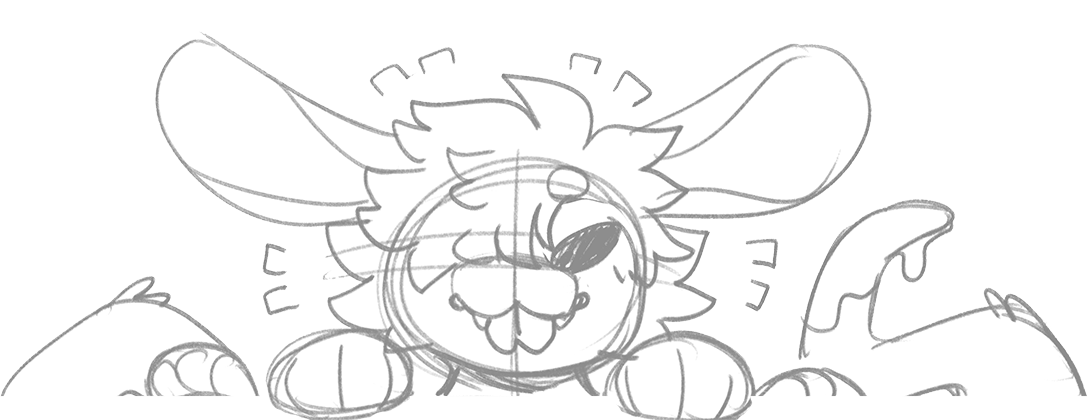
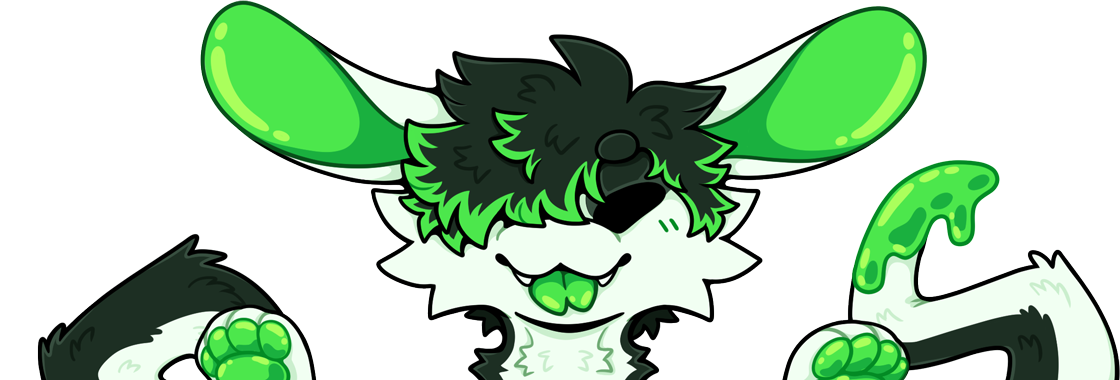
:bento: Add footer imagery

diff --git a/src/assets/components/_noodle-bowl.scss b/src/assets/components/_noodle-bowl.scss
@@ -1,28 +1,54 @@
 @use "../settings";
 
 .kimNoodleBowl {
-  --offset-top: var(--space-9);
-  --offset-bottom: 24px;
+  --height: 30vh;
+  --min-height: 22rem;
+  --max-height: 30rem;
+  --pawb-height-multiplier: 0.22;
+  --offset-top: var(--space-7-8);
+  --offset-bottom: var(--space-4-5);
+  --canvas-height: calc(100% - var(--offset-top) - var(--offset-bottom));
 
   position: relative;
+  height: clamp(var(--min-height), var(--height), var(--max-height));
   pointer-events: none;
 
-  &::before {
-    content: "";
-    display: block;
+  &_canvas {
     width: 100%;
-    height: calc(100% - var(--offset-top) - var(--offset-bottom));
+    height: var(--canvas-height);
     position: absolute;
     top: var(--offset-top);
     background-color: var(--color-furniture-alt);
-    z-index: -1;
   }
 
   &_inner {
-    height: 420px;
+    height: calc(var(--canvas-height) + var(--offset-top));
+    margin-top: calc(0px - var(--offset-top));
+    position: relative;
     background-image: url("/assets/images/noodle-footer.png");
     background-repeat: no-repeat;
     background-position: bottom center;
     background-size: auto 100%;
+
+    @media (min-resolution: 2x) {
+      background-image: url("/assets/images/noodle-footer@2x.png");
+    }
+
+    &::after {
+      content: "";
+      display: block;
+      width: 100%;
+      height: clamp(
+        calc(var(--min-height) * var(--pawb-height-multiplier)),
+        calc(var(--height) * var(--pawb-height-multiplier)),
+        calc(var(--max-height) * var(--pawb-height-multiplier))
+      );
+      position: absolute;
+      bottom: calc(0px - var(--offset-bottom));
+      background-image: url("/assets/images/noodle-footer--pawbs.png");
+      background-repeat: no-repeat;
+      background-position: bottom center;
+      background-size: auto 100%;
+    }
   }
 }

diff --git a/src/assets/javascript/spots.js b/src/assets/javascript/spots.js
@@ -9,6 +9,8 @@ export default class Spots {
       useCalendarThemes: false,
       intervalBetweenSpots: 200,
       heightProportion: 1,
+      spotMultiplier: 1,
+      colors: [],
     };
     this.settings = { ...defaultOptions, ...options };
 
@@ -40,11 +42,18 @@ export default class Spots {
     this.$canvas.width = this.canvasBox.width;
     this.$canvas.height = this.canvasBox.height;
     this.spotTarget = Math.floor(
-      (this.$canvas.width * this.$canvas.height) / 50000
+      ((this.$canvas.width * this.$canvas.height) / 50000) *
+        this.settings.spotMultiplier
     );
   }
 
   setStrokeColor() {
+    // Overridden colours
+    if (this.settings.colors.length) {
+      this.strokeColors = this.settings.colors;
+      return;
+    }
+
     // Default colours
     this.strokeColors =
       document.documentElement.dataset.colorScheme === "light"
